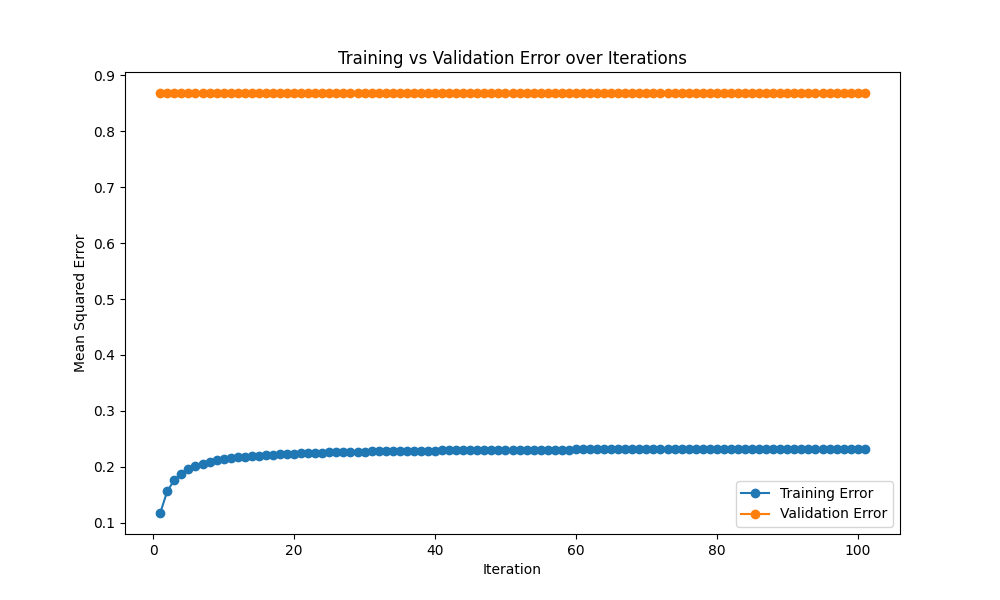
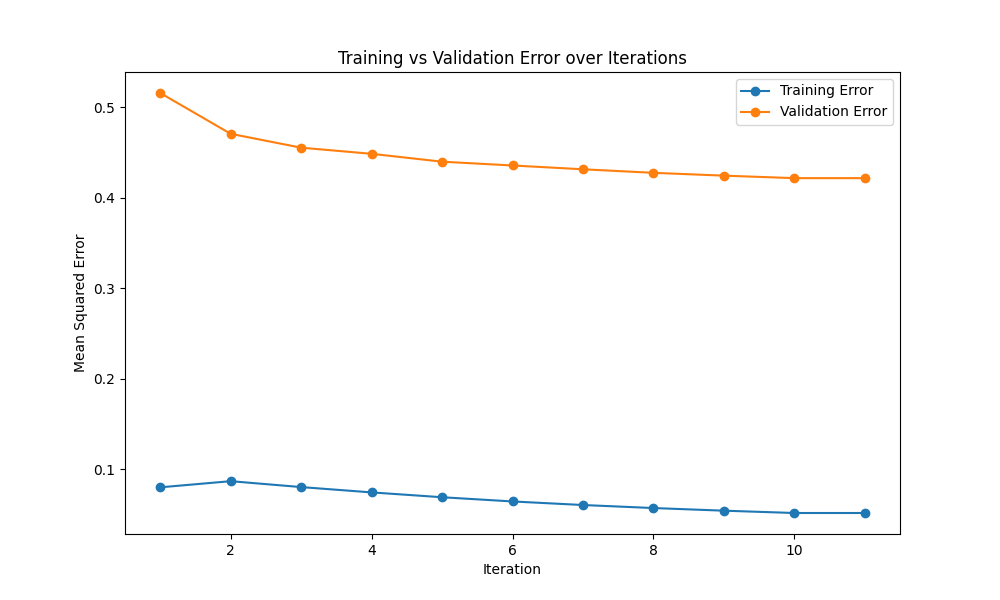
improve errors calculation

diff --git a/fed_relax.py b/fed_relax.py
@@ -92,13 +92,14 @@ ytrain = data["ytrain"]
 Xval = data["Xval"]
 yval = data["yval"]
 coords = data["coords"]
-Xtest = np.arange(0.0, 1, 0.1).reshape(-1, 1)
+# coords = np.array([np.mean(data["Xtrain"]), np.mean(data["ytrain"])])
+Xtest = np.arange(0.01, 10, 1)[:, np.newaxis]
 
 # Train a local model (replace with your actual model training)
 local_model = train_local_model(Xtrain, ytrain)
 
 # Get sample weights (e.g., set equal weights for all data points)
-sample_weight = np.ones(len(Xtrain))
+sample_weight = np.ones((len(ytrain), 1))
 
 def decode_and_unpickle(encoded_data):
     try:
@@ -108,23 +109,6 @@ def decode_and_unpickle(encoded_data):
     except Exception as e:
         app.logger.error("Error decoding and unpickling data: %s", e)
         raise
-
-def process_all_coords(coords_received):
-    global all_client_coords
-    print("Decoding data..")
-    try:
-        pod_name = coords_received['pod_name']
-        coords = decode_and_unpickle(coords_received['coords'])
-        print(f"Received update from pod: {pod_name} with {coords}")
-
-        pod_attributes = {"coords": coords}
-        with attributes_lock:
-            # Add the attributes to the global dictionary
-            all_client_coords[pod_name] = pod_attributes
-
-    except Exception as e:
-        app.logger.error("Error processing client attributes: %s", e)
-        return jsonify({"error": "An error occurred while processing client attributes"}), 500
 
 
 def send_data(client_update, pod_urls, max_retries=100000, retry_delay=20):
@@ -184,10 +168,9 @@ def are_all_pods_ready():
         return False
 
 
-def add_edges_k8s(clients_attributes, nrneighbors=3):
+def add_edges_k8s(clients_attributes, nrneighbors=4, refdistance=50):
     """
-    Add edges to the graph based on pod attributes retrieved from Kubernetes config maps
-    using k-nearest neighbors approach.
+    Add edges to the graph based on pod attributes using k-nearest neighbors approach.
     """
     # Initialize empty graph
     graph = nx.Graph()
@@ -205,6 +188,7 @@ def add_edges_k8s(clients_attributes, nrneighbors=3):
 
     # Calculate k-nearest neighbors graph
     A = kneighbors_graph(node_positions, n_neighbors=nrneighbors, mode='connectivity', include_self=False)
+    A = A.toarray()
 
     # Iterate over the k-nearest neighbors graph and add edges with weights
     for i in range(len(clients_attributes)):
@@ -215,9 +199,10 @@ def add_edges_k8s(clients_attributes, nrneighbors=3):
 
                 # Calculate the Euclidean distance between pods based on their positions
                 distance = np.linalg.norm(node_positions[i] - node_positions[j])
+                weight = np.exp(-distance / refdistance)
 
                 # Add edge with weight based on distance
-                graph.add_edge(pod_name_i, pod_name_j, weight=distance)
+                graph.add_edge(pod_name_i, pod_name_j, weight=weight)
 
     return graph
 
@@ -233,7 +218,7 @@ def visualize_and_save_graph(graph, output_path):
     plt.show()  # Display the graph
 
 
-def FedRelax(G, regparam=0, maxiter=100):
+def FedRelax(G, regparam=0, maxiter=10):
     # Determine the number of data points in the test set
     global neighbours_models, local_model, Xtrain, ytrain, Xtest, sample_weight, current_iteration
     testsize = Xtest.shape[0]
@@ -257,18 +242,18 @@ def FedRelax(G, regparam=0, maxiter=100):
         if len(neighbours_models[iter_GD]) == len(neighbour_lists):
             print("Received all models from neighbours: %s", neighbours_models)
 
-        # Update lt[]ocal model
+        # Update local model
         for model_attributes in neighbours_models[iter_GD]:
             for neighbour, nmodel in model_attributes.items():
                 neighbourpred = nmodel.predict(Xtest).reshape(-1, 1)
-                neighbourpred = np.tile(neighbourpred, (1, len(ytrain[0])))
+                # neighbourpred = np.tile(neighbourpred, (1, len(ytrain[0])))
                 ytrain = np.vstack((ytrain, neighbourpred))
                 Xtrain = np.vstack((Xtrain, Xtest))
 
                 # Set sample weights of added local dataset according to edge weight and GTV regularization parameter
                 sampleweightaug = (regparam * len(ytrain) / testsize)
-                sample_weight_reshaped = sample_weight.reshape(-1, 1)
-                sample_weight = np.vstack((sample_weight_reshaped, sampleweightaug * G.edges[(my_pod_name, neighbour)]["weight"] * np.ones((len(neighbourpred), 1))))
+                # sample_weight_reshaped = sample_weight.reshape(-1, 1)
+                sample_weight = np.vstack((sample_weight, sampleweightaug * G.edges[(my_pod_name, neighbour)]["weight"] * np.ones((len(neighbourpred), 1))))
 
         # Fit the local model with the augmented dataset and sample weights
         local_model.fit(Xtrain, ytrain, sample_weight=sample_weight.reshape(-1))
@@ -478,11 +463,12 @@ def all_model_evaluation(output_path):
     nodes = range(1, len(all_train_errors) + 1)
     plt.figure(figsize=(12, 6))
     plt.plot(nodes, all_train_errors, marker='o', color='blue', label='Training Error')
-    plt.plot(nodes, all_train_errors, marker='o', color='green', label='Validation Error')
+    plt.plot(nodes, all_val_errors, marker='o', color='green', label='Validation Error')
     plt.xlabel('Node')
     plt.ylabel('Mean Squared Error')
     plt.title('Training and Validation Errors Across Nodes')
     plt.xticks(nodes) 
+    plt.legend()
     plt.grid(True)
     plt.savefig(output_path)
     print(f"Image is successfully saved in {output_path}")
@@ -526,7 +512,7 @@ def main():
 
     fed_relax_st = time.time()
     print("Running FedRelax algorithm...")
-    final_model = FedRelax(knn_graph, regparam=0)
+    final_model = FedRelax(knn_graph, regparam=1.5)
     fed_relax_end = time.time()
     print("runtime of FedRelax ",fed_relax_end-fed_relax_st)
 
